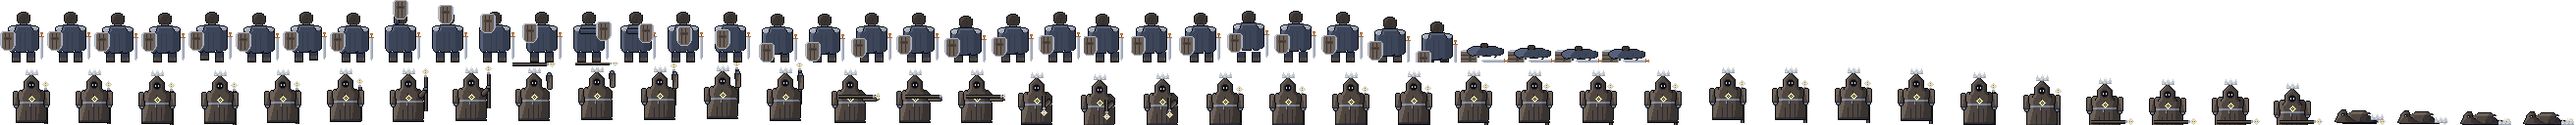
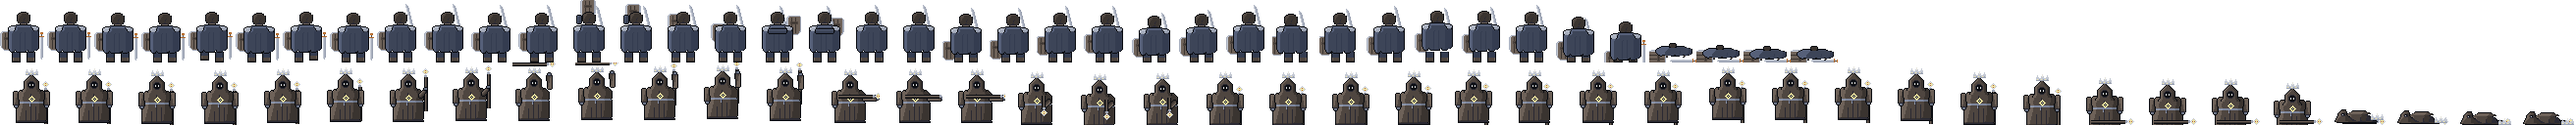
Hold the player's shield and sword in front, ready the sword in fights
From behind, the shield and a readied sword are in front of the body, so they
are drawn first and the cloak, head and legs cover them; the shield no longer
reads as slung on the back. Fights use a new guard tag: sword point up,
aimed at the enemy, hilt hidden (tested). Exploring keeps the relaxed sword
at the hip. Wind-ups still hold one guard frame for every question.

Changed region(s): [[0.0938, 0.0, 0.7188, 0.5], [0.0, 0.25, 0.0625, 0.4062]]

diff --git a/art/sprites/player.ts b/art/sprites/player.ts
@@ -79,6 +79,42 @@ const sword = part('player sword', 5, [
   '2. Q',
 ]);
 
+/**
+ * The sword readied, point up, leaning toward the centre: aimed forward at the enemy, as seen
+ * from behind. The guard and grip sit low, where the cloak hides them.
+ */
+const swordReady = part('player sword readied', 12, [
+  '1. Q',
+  '1. R Q',
+  '1. R Q P',
+  '1. R Q P',
+  '2. R Q P',
+  '2. R Q P',
+  '2. R Q P',
+  '2. R Q P',
+  '3. R Q P',
+  '3. R Q P',
+  '3. R Q P',
+  '3. R Q P',
+  '4. R Q P',
+  '4. R Q P',
+  '4. R Q P',
+  '4. R Q P',
+  '5. R Q P',
+  '5. R Q P',
+  '5. R Q P',
+  '5. R Q P',
+  '6. R Q P',
+  '6. R Q P',
+  '6. R Q P',
+  '6. R Q P',
+  '5. 5d',
+  '6. d c d',
+  '7. V',
+  '7. V',
+  '6. 3d',
+]);
+
 const sleeveUp = part('player sleeve up', 6, ['1. 4A', 'A 2M 2K A', 'A M 3K A', 'A M 3K A', 'A M 3K A', 'A M 3K A', 'A M 3K A', 'A M 3J A', 'A M 3J A', '1. 4A']);
 const sleeveAcross = part('player sleeve across', 20, ['1. 18A', 'A 18M A', 'A 18K A', 'A 18K A', 'A 18J A', '1. 18A']);
 
@@ -102,8 +138,16 @@ const fallen = part('player fallen', 40, [
 ]);
 
 // --- poses -----------------------------------------------------------------
+//
+// The camera is behind the player, so anything held toward the enemy is in front of the body:
+// shield and readied sword are drawn first and the legs, head and cloak cover what they overlap.
+// Only what sticks out past the body shows. Sleeves are nearer the camera than the shield, so
+// they are drawn last. The relaxed sword hangs at the hip, beside the body, and is drawn on top.
 
+/** Shield in front of the left side: its rim peeks out past the cloak. */
 const SHIELD_REST = { x: 0, y: 32 };
+/** Readied sword: hilt hidden in front of the chest, blade rising past the right of the head. */
+const SWORD_READY = { x: 28, y: 4 };
 
 interface Pose {
   dx?: number;
@@ -112,6 +156,8 @@ interface Pose {
   head?: { x: number; y: number };
   legs?: { l: number; r: number };
   shield?: { x: number; y: number };
+  /** `ready` in fights (offset from SWORD_READY), `hip` when exploring. */
+  sword?: { x: number; y: number } | 'hip';
   extra?: Placed[];
 }
 
@@ -119,17 +165,20 @@ function pose(p: Pose = {}): Frame {
   const dx = p.dx ?? 0;
   const dy = p.dy ?? 0;
   const s = p.shield ?? SHIELD_REST;
+  const sw = p.sword ?? 'hip';
   return [
+    at(shield, s.x + dx, s.y + dy),
+    ...(sw === 'hip' ? [] : [at(swordReady, SWORD_READY.x + sw.x + dx, SWORD_READY.y + sw.y + dy)]),
     at(legL, 12, 53 + (p.legs?.l ?? 0)),
     at(legR, 27, 53 + (p.legs?.r ?? 0)),
     at(head, 17 + dx + (p.head?.x ?? 0), 12 + dy + (p.head?.y ?? 0)),
     at(cloak, 7 + dx, 25 + dy),
-    at(sword, 40 + dx, 33 + dy),
+    ...(sw === 'hip' ? [at(sword, 40 + dx, 33 + dy)] : []),
     ...(p.extra ?? []),
-    at(shield, s.x + dx, s.y + dy),
   ];
 }
 
+const READY = { x: 0, y: 0 };
 const idle = [0, 0, 1, 1].map((dy) => pose({ dy }));
 const walk = [
   pose({ legs: { l: -2, r: 0 } }),
@@ -137,11 +186,16 @@ const walk = [
   pose({ legs: { l: 0, r: -2 } }),
   pose({ dy: 1 }),
 ];
+/** Fight stance: sword readied, a slow breath. Frame 0 is held through every wind-up. */
+const guard = [0, 0, 1, 1].map((dy) => pose({ dy, sword: READY }));
 
-const PARRY: Record<'north' | 'east' | 'south', { shield: { x: number; y: number }; dy: number; sleeve: Placed | null }> = {
-  north: { shield: { x: 16, y: 0 }, dy: 0, sleeve: at(sleeveUp, 17, 15) },
-  east: { shield: { x: 31, y: 22 }, dy: 0, sleeve: at(sleeveAcross, 14, 29) },
-  south: { shield: { x: 5, y: 42 }, dy: 2, sleeve: null },
+const PARRY: Record<'north' | 'east' | 'south', { shield: { x: number; y: number }; dy: number; sleeve: Placed | null; sword: { x: number; y: number } }> = {
+  // Raised in front of the face: the head hides its lower edge.
+  north: { shield: { x: 15, y: -1 }, dy: 0, sleeve: at(sleeveUp, 11, 15), sword: { x: 2, y: 2 } },
+  // Pushed out past the right shoulder.
+  east: { shield: { x: 33, y: 16 }, dy: 0, sleeve: at(sleeveAcross, 14, 29), sword: { x: -3, y: 2 } },
+  // Low on the left, the player crouching behind it.
+  south: { shield: { x: -1, y: 40 }, dy: 2, sleeve: null, sword: { x: 0, y: 2 } },
 };
 /** Contact on frame 0 (held through the hit-stop), then the shield eases back. */
 const EASE = [1, 0.85, 0.55, 0.25];
@@ -155,6 +209,7 @@ const parry = Object.fromEntries(
         pose({
           dy: Math.round(t.dy * k),
           shield: { x: lerp(SHIELD_REST.x, t.shield.x, k), y: lerp(SHIELD_REST.y, t.shield.y, k) },
+          sword: { x: Math.round(t.sword.x * k), y: Math.round(t.sword.y * k) },
           extra: t.sleeve && k > 0.6 ? [t.sleeve] : [],
         }),
       ),
@@ -163,21 +218,29 @@ const parry = Object.fromEntries(
 ) as Record<'north' | 'east' | 'south', Frame[]>;
 
 const UNIT = { north: { x: 0, y: -1 }, east: { x: 1, y: 0 }, south: { x: 0, y: 1 } };
+/** Hit: knocked back, shield sagging, sword knocked low and outward, then recovering. */
 const hit = Object.fromEntries(
   (['north', 'east', 'south'] as const).map((d) => [
     d,
     [4, 3, 1].map((push, f) => {
       const dx = -UNIT[d].x * push;
       const dy = d === 'north' ? ([3, 2, 0][f] ?? 0) : d === 'south' ? -([2, 1, 0][f] ?? 0) : 1;
-      return pose({ dx, dy, head: { x: f === 0 ? -UNIT[d].x : 0, y: f === 0 ? 1 : 0 }, shield: { x: SHIELD_REST.x + 2, y: SHIELD_REST.y + 4 } });
+      const knock = [6, 4, 1][f] ?? 0;
+      return pose({
+        dx,
+        dy,
+        head: { x: f === 0 ? -UNIT[d].x : 0, y: f === 0 ? 1 : 0 },
+        shield: { x: SHIELD_REST.x + 1, y: SHIELD_REST.y + 4 },
+        sword: { x: Math.floor(knock / 3), y: knock },
+      });
     }),
   ]),
 ) as Record<'north' | 'east' | 'south', Frame[]>;
 
 const lying = (y: number): Frame => [at(rotCW(shield), -3, 51), at(rotCW(sword), 21, 60), at(fallen, 4, y)];
 const death: Frame[] = [
-  pose({ dy: 4, head: { x: 0, y: 1 }, shield: { x: 1, y: 38 } }),
-  pose({ dy: 8, head: { x: 0, y: 2 }, shield: { x: 2, y: 44 } }),
+  pose({ dy: 4, head: { x: 0, y: 1 }, shield: { x: 1, y: 38 }, sword: { x: 1, y: 10 } }),
+  pose({ dy: 8, head: { x: 0, y: 2 }, shield: { x: 2, y: 44 }, sword: 'hip' }),
   lying(44),
   lying(46),
   lying(47),
@@ -191,6 +254,7 @@ export const PLAYER: CharacterArt = {
   tags: {
     idle,
     walk,
+    guard,
     parry_north: parry.north,
     parry_east: parry.east,
     parry_south: parry.south,

diff --git a/src/combat/sprites.ts b/src/combat/sprites.ts
@@ -10,7 +10,8 @@ import type { Animation } from './view';
 
 /** Frames per animation tag (SPEC 8). Directional tags get one set per drawn direction. */
 export const ENEMY_FRAMES = { idle: 4, windup: 6, strike: 3, recoil: 4, break: 4, death: 6 } as const;
-export const PLAYER_FRAMES = { idle: 4, walk: 4, parry: 4, hit: 3, death: 6 } as const;
+/** `guard` (sword readied) is an addition to SPEC 8's list: the player's stance in fights (DECISIONS #92). */
+export const PLAYER_FRAMES = { idle: 4, walk: 4, guard: 4, parry: 4, hit: 3, death: 6 } as const;
 
 /** Directions with their own art. West mirrors east. */
 export const DRAWN_DIRECTIONS = ['north', 'east', 'south'] as const;
@@ -74,18 +75,23 @@ export function enemyFrame(a: Animation, clock: FrameClock): SpriteFrame {
   }
 }
 
-export function playerFrame(a: Animation, clock: FrameClock): SpriteFrame {
+/**
+ * The player's frame. In a fight the player stands in guard (sword readied) instead of the
+ * relaxed exploring idle; during a wind-up that is one held frame, whatever the question.
+ */
+export function playerFrame(a: Animation, clock: FrameClock, scene: 'world' | 'fight' = 'world'): SpriteFrame {
+  const rest = scene === 'fight' ? 'guard' : 'idle';
   switch (a.playerPose) {
     case 'guard':
       // One held guard frame for the whole wind-up.
-      return { tag: 'idle', frame: 0, flip: false };
+      return { tag: 'guard', frame: 0, flip: false };
     case 'parry':
-      return a.toward ? directional('parry', a.toward, a.progress, PLAYER_FRAMES.parry) : { tag: 'idle', frame: 0, flip: false };
+      return a.toward ? directional('parry', a.toward, a.progress, PLAYER_FRAMES.parry) : { tag: rest, frame: 0, flip: false };
     case 'hit':
-      return a.toward ? directional('hit', a.toward, a.progress, PLAYER_FRAMES.hit) : { tag: 'idle', frame: 0, flip: false };
+      return a.toward ? directional('hit', a.toward, a.progress, PLAYER_FRAMES.hit) : { tag: rest, frame: 0, flip: false };
     case 'dead':
       return { tag: 'death', frame: Math.min(PLAYER_FRAMES.death - 1, Math.floor(clock.sinceEndMs / DEATH_FRAME_MS)), flip: false };
     case 'idle':
-      return { tag: 'idle', frame: Math.floor(clock.nowMs / IDLE_FRAME_MS) % PLAYER_FRAMES.idle, flip: false };
+      return { tag: rest, frame: Math.floor(clock.nowMs / IDLE_FRAME_MS) % PLAYER_FRAMES[rest], flip: false };
   }
 }

diff --git a/src/combat/sprites.test.ts b/src/combat/sprites.test.ts
@@ -11,7 +11,7 @@ describe('sprite frames', () => {
     const enemy = requiredTags('enemy');
     expect(enemy).toMatchObject({ idle: 4, windup: 6, strike_north: 3, strike_east: 3, strike_south: 3, recoil_east: 4, break: 4, death: 6 });
     expect(enemy['strike_west']).toBeUndefined();
-    expect(requiredTags('player')).toMatchObject({ idle: 4, parry_north: 4, parry_south: 4, hit_east: 3, death: 6 });
+    expect(requiredTags('player')).toMatchObject({ idle: 4, guard: 4, parry_north: 4, parry_south: 4, hit_east: 3, death: 6 });
   });
 
   it('time-stretches one wind-up over the window: six frames by progress', () => {
@@ -23,7 +23,10 @@ describe('sprite frames', () => {
   it('ignores the clock during a wind-up', () => {
     const a: Animation = { ...base, enemyPose: 'windup', progress: 0.5, playerPose: 'guard', timerLeft: 0.5 };
     expect(enemyFrame(a, { nowMs: 0, sinceEndMs: 0 })).toEqual(enemyFrame(a, { nowMs: 12345, sinceEndMs: 999 }));
-    expect(playerFrame(a, { nowMs: 0, sinceEndMs: 0 })).toEqual(playerFrame(a, { nowMs: 12345, sinceEndMs: 999 }));
+    for (const scene of ['world', 'fight'] as const) {
+      expect(playerFrame(a, { nowMs: 0, sinceEndMs: 0 }, scene)).toEqual({ tag: 'guard', frame: 0, flip: false });
+      expect(playerFrame(a, { nowMs: 12345, sinceEndMs: 999 }, scene)).toEqual({ tag: 'guard', frame: 0, flip: false });
+    }
   });
 
   it('mirrors the east set for west', () => {
@@ -53,5 +56,10 @@ describe('sprite frames', () => {
   it('plays death once and holds the last frame', () => {
     expect(enemyFrame({ ...base, enemyPose: 'dead' }, { nowMs: 0, sinceEndMs: 0 }).frame).toBe(0);
     expect(enemyFrame({ ...base, enemyPose: 'dead' }, { nowMs: 0, sinceEndMs: 100_000 }).frame).toBe(5);
+  });
+
+  it('stands in guard during a fight and relaxed in the world', () => {
+    expect(playerFrame(base, { nowMs: 500, sinceEndMs: 0 }, 'fight').tag).toBe('guard');
+    expect(playerFrame(base, { nowMs: 500, sinceEndMs: 0 }).tag).toBe('idle');
   });
 });

diff --git a/art/art.test.ts b/art/art.test.ts
@@ -5,7 +5,7 @@ import { requiredTags } from '../src/combat/sprites';
 import { missingTags, parseAtlas } from '../src/platform/atlas';
 import { CHARACTERS } from '../src/platform/characters';
 import { ART, atlasJsonText, buildSheet, encodePng } from './build';
-import { decodeRow, part, rasterize, rotCW, flipX } from './kit';
+import { decodeRow, flipX, KEYS, part, rasterize, rotCW } from './kit';
 
 describe('art kit', () => {
   it('decodes run-length rows and pads them to the part width', () => {
@@ -47,6 +47,17 @@ describe('hand-drawn characters', () => {
       for (const [tag, frames] of Object.entries(c.tags)) {
         frames.forEach((f, i) => expect(rasterize(f, c.w, c.h).some((k) => k >= 0), `${c.id}/${tag} ${i}`).toBe(true));
       }
+    }
+  });
+
+  it("the readied sword's hilt stays hidden behind the body in every fight frame", () => {
+    const player = ART.find((c) => c.id === 'player')!;
+    const hilt = [KEYS.indexOf('c'), KEYS.indexOf('d')];
+    for (const tag of ['guard', 'parry_north', 'parry_east', 'parry_south', 'hit_north', 'hit_east', 'hit_south']) {
+      player.tags[tag]!.forEach((f, i) => {
+        const shown = [...rasterize(f, player.w, player.h)].filter((k) => hilt.includes(k)).length;
+        expect(shown, `${tag} ${i}`).toBe(0);
+      });
     }
   });
 

diff --git a/src/platform/placeholderArt.ts b/src/platform/placeholderArt.ts
@@ -223,7 +223,7 @@ function paintPlayer(g: G, spec: CharacterSpec, tag: string, f: number, ox: numb
   let flat = 0;
   let shield = { x: -14, y: 26 };
   let leg = 0;
-  if (name === 'idle') dy = [0, 0, 1, 1][f] ?? 0;
+  if (name === 'idle' || name === 'guard') dy = [0, 0, 1, 1][f] ?? 0;
   if (name === 'walk') {
     dy = [0, 1, 0, 1][f] ?? 0;
     leg = [1, 0, -1, 0][f] ?? 0;
@@ -266,8 +266,10 @@ function paintPlayer(g: G, spec: CharacterSpec, tag: string, f: number, ox: numb
   // Head: hair from behind.
   rect(g, cx - 6, top - 13 + Math.round(crouch * 4), 12, 13, C.void);
   rect(g, cx - 5, top - 12 + Math.round(crouch * 4), 10, 4, look.dark);
-  // Sword down the right side.
-  ray(g, cx + 17, top + 10, 175, 26, 2, C.weapon);
+  // Sword: readied point-up in fights (guard, parry, hit), down the right side otherwise.
+  const ready = name === 'guard' || name === 'parry' || name === 'hit';
+  if (ready) ray(g, cx + 14, top + 12, -8, 30, 2, C.weapon);
+  else ray(g, cx + 17, top + 10, 175, 26, 2, C.weapon);
   // Shield (its back, with the grip): left hand, moved to the parry direction.
   const sx = cx + shield.x;
   const sy = top - 14 + shield.y;

diff --git a/src/combat/blind-bot.test.ts b/src/combat/blind-bot.test.ts
@@ -288,7 +288,7 @@ describe('wind-up animation carries no answer information', () => {
           for (const f of fractions) {
             const view = viewOf(enc, f * span);
             const a = view.animation;
-            const seen = JSON.stringify({ a: { ...a, timerLeft: null }, enemy: enemyFrame(a, clock), player: playerFrame(a, clock), cues: cuesBetween(prev, view) });
+            const seen = JSON.stringify({ a: { ...a, timerLeft: null }, enemy: enemyFrame(a, clock), player: playerFrame(a, clock, 'fight'), cues: cuesBetween(prev, view) });
             prev = view;
             const ref = reference.get(f);
             if (ref) expect(seen).toEqual(ref);

diff --git a/src/scenes/fight.ts b/src/scenes/fight.ts
@@ -277,7 +277,7 @@ export class Fight {
   }
 
   private drawPlayer(r: Renderer, a: Animation, nowMs: number, calm: boolean): void {
-    const f = playerFrame(a, { nowMs, sinceEndMs: this.endedAt === null ? 0 : nowMs - this.endedAt });
+    const f = playerFrame(a, { nowMs, sinceEndMs: this.endedAt === null ? 0 : nowMs - this.endedAt }, 'fight');
     // Hit shake, after the hit-stop; none with reduced motion.
     const shake = a.playerPose === 'hit' && !a.frozen && !calm ? Math.round(Math.sin(a.progress * 24) * HIT_SHAKE_PX) : 0;
     this.svc.sprites.draw(r.low, 'player', f, 160 + shake, PLAYER_BOTTOM);

diff --git a/docs/DECISIONS.md b/docs/DECISIONS.md
@@ -179,3 +179,9 @@ Each entry: what was ambiguous, the reading picked, and why. Revisit any of them
     - The wind-up frames depend on the frame index only, so the shared-wind-up rule holds, and the blind-bot suite is unchanged.
     - Review aids: `/art-test.html` shows every tag of each drawn character above its placeholder, and `/?seed=N&enemy=<id>` sets the practice-fight opponent.
     - If real art from an artist arrives as an Aseprite export with the same tag names, it replaces this sheet with no code change.
+92. **The player's shield and readied sword are in front of the body; fights use a `guard` stance.** The camera is behind the player, so anything held toward the enemy is farther from the camera than the body. The hand-drawn player now draws shield and readied sword first; the legs, head and cloak cover them, and only what sticks out past the body shows. The arm sleeves are nearer the camera and draw last. The first sample drew the shield on top, so it read as slung on his back. Parries stay shield parries:
+    - north: raised before the face, the head covering its lower edge;
+    - east: out past the right shoulder;
+    - south: low on the left.
+
+    In fights the sword is readied: point up and leaning in, aimed at the enemy, its hilt hidden in front of the chest. A test checks no hilt pixel shows in any fight frame. A hit knocks the sword low. Exploring frames keep it relaxed at the hip. `guard` (4 frames) is a player tag added to SPEC 8's list. `playerFrame(…, 'fight')` uses it for the fight's rest pose, and every wind-up holds guard frame 0, still one frame for every question. West parries are the east frames mirrored, as SPEC 8 asks, so for those frames shield and sword swap hands. Accepted.

diff --git a/docs/PROGRESS.md b/docs/PROGRESS.md
@@ -207,6 +207,8 @@ Decisions #77–#90.
   `public/art/atlas.{json,png}`; `art/art.test.ts` checks tags, sizes, the crown in every warden
   frame, PNG round-trip, and that the committed files match a fresh build.
 - Review: `/art-test.html` (drawn vs placeholder, `?scale=N`), `/?seed=N&enemy=hollow_monk`.
+- Player revision (#92): shield and readied sword drawn in front of the body (hidden where the
+  body covers them), and a new `guard` tag for the fight stance with the sword readied.
 - Still placeholders: hollow_villager, hollow_smith, whisperer, crow, ghost, boss_zone1, and the
   room backdrops. Waiting on the designer's verdict on the sample before drawing the rest.
 
